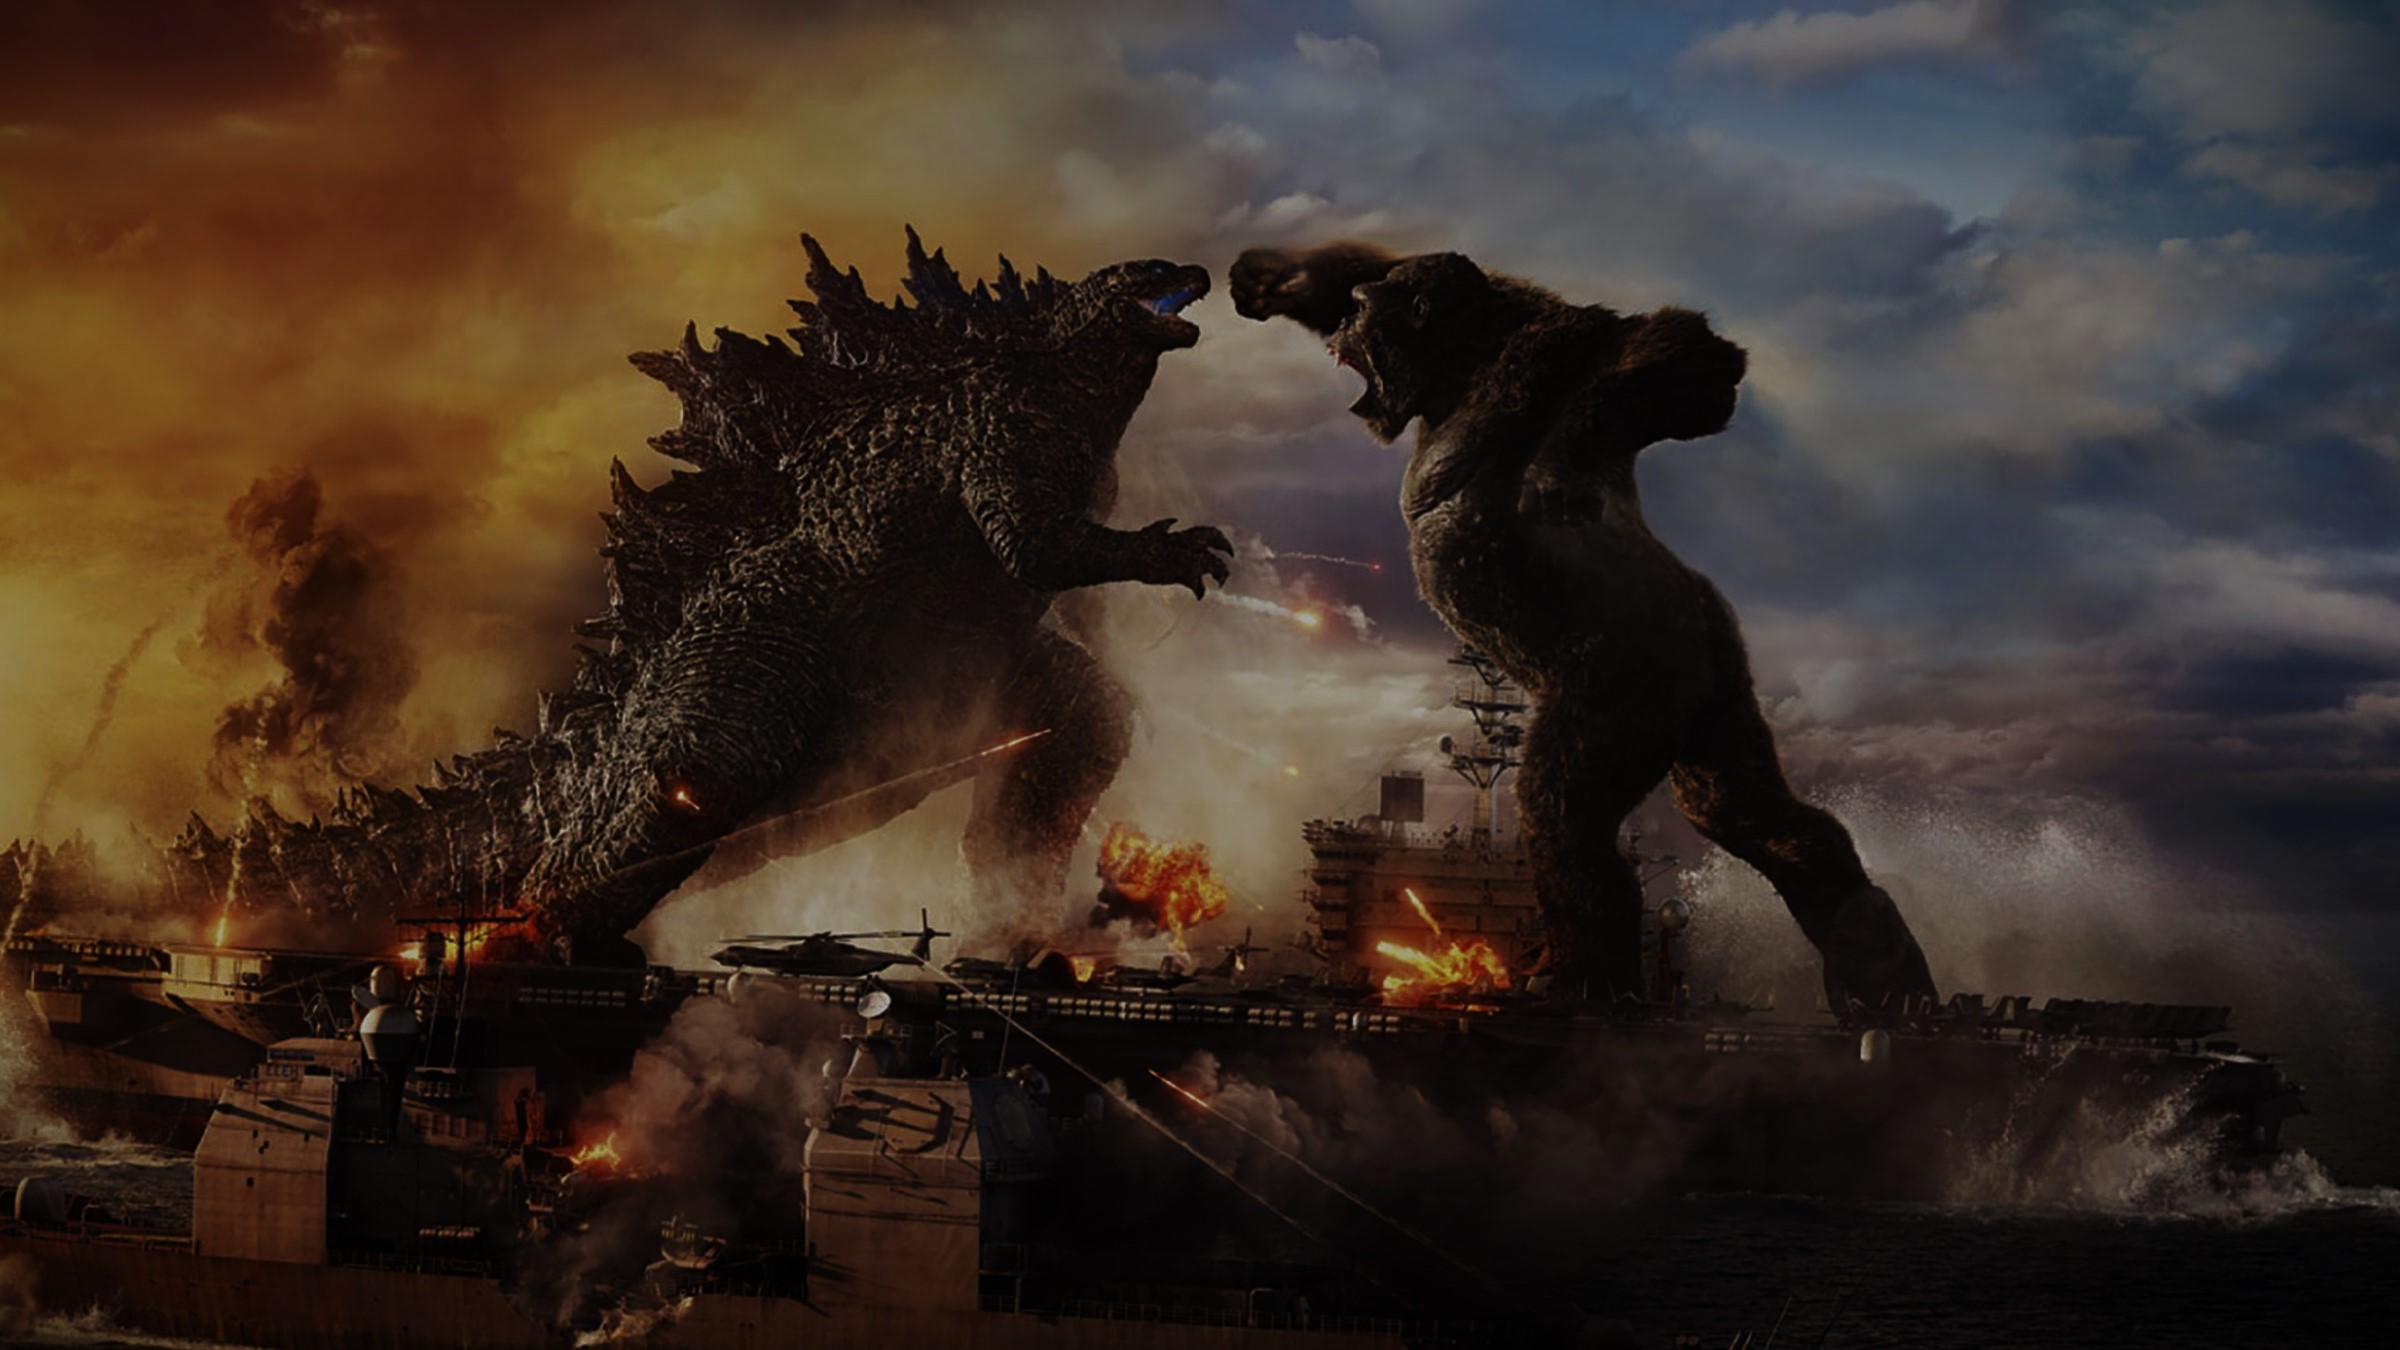
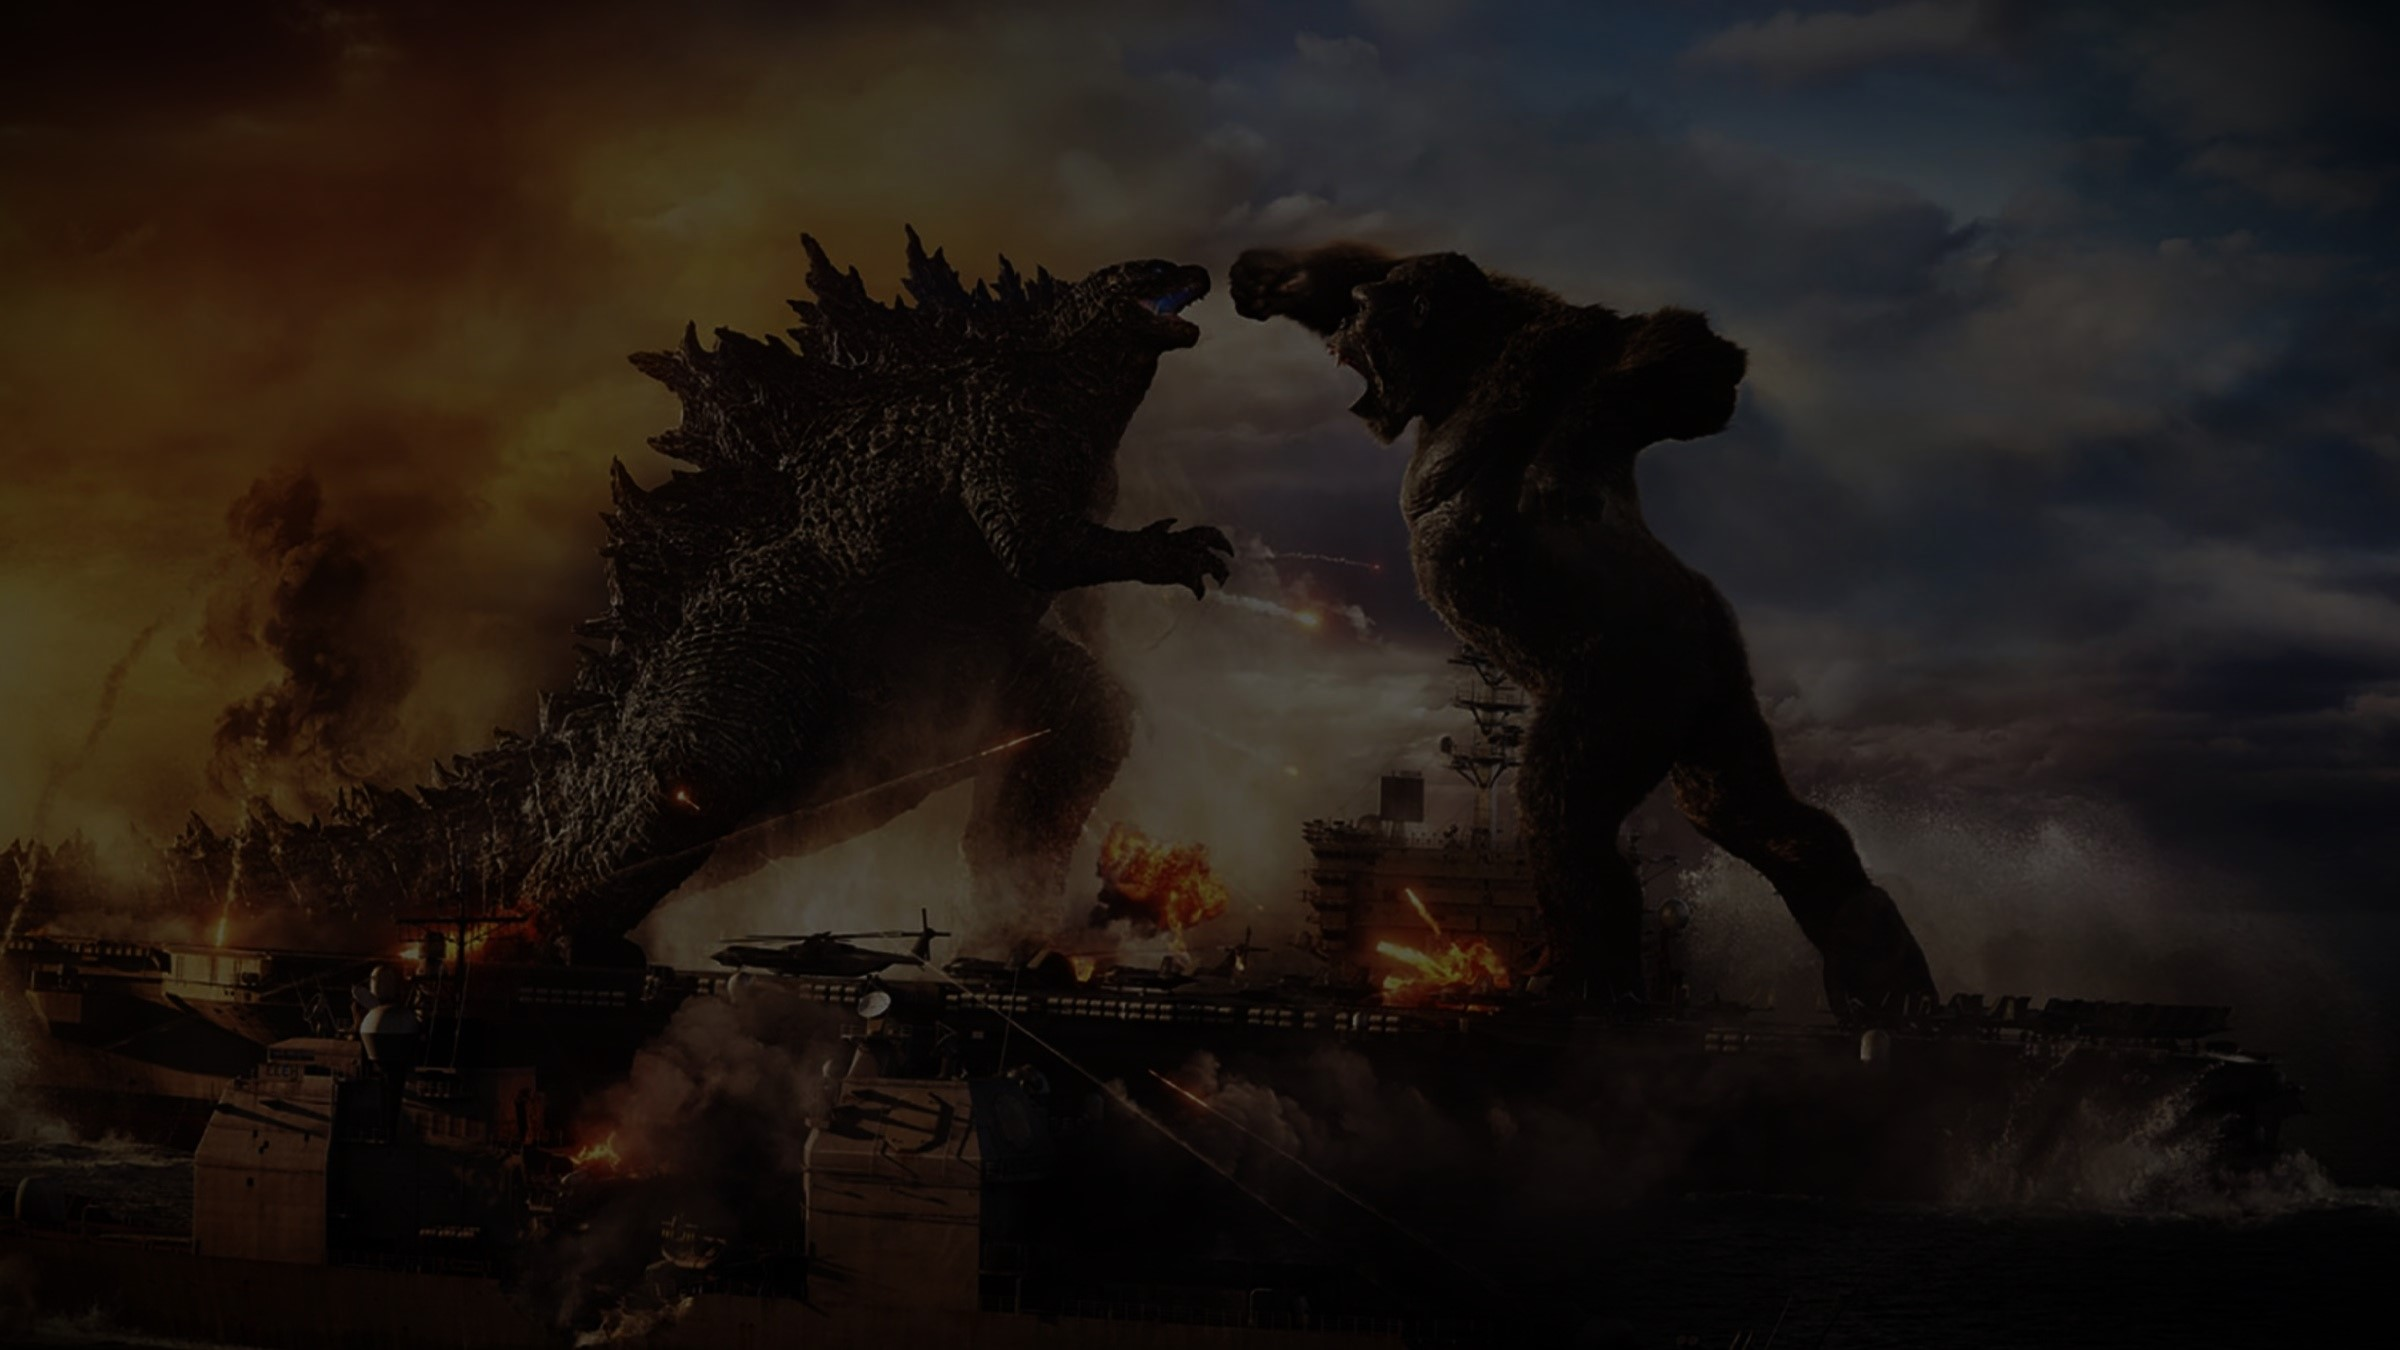
Tagbar

diff --git a/frontend/src/data.ts b/frontend/src/data.ts
@@ -1,5 +1,7 @@
 //membuat data data film
+import { count } from 'console'
 import {Film} from './app/shared/models/Film'
+import { Tag } from './app/shared/models/Tag'
 
 export const sample_film: Film[]= [
     {
@@ -111,7 +113,19 @@ export const sample_film: Film[]= [
         stars: 3.5,
         imageUrl: 'assets/film10.jpg',
         tags: ['Crime', 'Comedy'],
-      },
-      
-      
+      },      
+]
+
+export const sample_tags:Tag[] =[
+  { name: 'All', count:6},
+  { name: 'Action', count: 5},
+  { name: 'Sport', count:1},
+  { name: 'Drama', count: 3},
+  { name: 'Thriller', count:2},
+  { name: 'Fantasy', count:1},
+  { name: 'Sci-Fi', count:3},
+  { name: 'Crime', count:2},
+  { name: 'History', count:1},
+  { name: 'Comedy', count:2},
+  { name: 'Romance', count:1},
 ]

diff --git a/frontend/src/app/services/film.service.ts b/frontend/src/app/services/film.service.ts
@@ -1,6 +1,7 @@
 import { Injectable } from '@angular/core';
 import { Film } from '../shared/models/Film'
-import { sample_film } from '../../data';
+import { sample_film, sample_tags } from '../../data';
+import { Tag } from '../shared/models/Tag';
 @Injectable({
   providedIn: 'root'
 })
@@ -13,6 +14,14 @@ export class FilmService {
   }
   getAllFilmsBySearchTerm(searchTerm:string){
     return this.getAll().filter(film => film.name.toLowerCase().includes(searchTerm.toLowerCase()))
+  }
+  getAllTags():Tag[]{
+    return sample_tags
+  }
+  getAllFilmsByTag(tag:string):Film[]{
+  return tag === "All"?
+  this.getAll():
+  this.getAll().filter(film => film.tags?.includes(tag));
   }
   }
 

diff --git a/frontend/src/styles.css b/frontend/src/styles.css
@@ -3,9 +3,11 @@
 @import url('https://fonts.googleapis.com/css2?family=Anton&family=Manrope:wght@600&family=Montaga&family=Montserrat:wght@500&family=Nunito+Sans:ital,opsz,wght@0,6..12,200..1000;1,6..12,200..1000&family=Oswald&family=Playfair+Display&family=Poppins:ital,wght@0,100;0,200;0,300;0,400;0,500;0,600;0,700;0,800;0,900;1,100;1,200;1,300;1,400;1,500;1,600;1,700;1,800;1,900&family=Roboto:ital,wght@0,100;0,300;0,400;0,500;0,700;0,900;1,100;1,300;1,400;1,500;1,700;1,900&family=Sofia+Sans+Condensed&display=swap');
 *{
     box-sizing: border-box;
+    
 }
 html{
     font-size: 16px;
+    background-color: black;
 }
 html,
 button{

diff --git a/frontend/src/app/components/partials/tags/tags.component.spec.ts b/frontend/src/app/components/partials/tags/tags.component.spec.ts
@@ -1,0 +1,23 @@
+import { ComponentFixture, TestBed } from '@angular/core/testing';
+
+import { TagsComponent } from './tags.component';
+
+describe('TagsComponent', () => {
+  let component: TagsComponent;
+  let fixture: ComponentFixture<TagsComponent>;
+
+  beforeEach(async () => {
+    await TestBed.configureTestingModule({
+      declarations: [TagsComponent]
+    })
+    .compileComponents();
+    
+    fixture = TestBed.createComponent(TagsComponent);
+    component = fixture.componentInstance;
+    fixture.detectChanges();
+  });
+
+  it('should create', () => {
+    expect(component).toBeTruthy();
+  });
+});

diff --git a/frontend/src/app/app.module.ts b/frontend/src/app/app.module.ts
@@ -8,13 +8,15 @@ import { StarRatingComponent } from './components/partials/star-rating/star-rati
 import { MatIconModule } from '@angular/material/icon';
 import { provideAnimationsAsync } from '@angular/platform-browser/animations/async';
 import { SearchComponent } from './components/partials/search/search.component';
+import { TagsComponent } from './components/partials/tags/tags.component';
 @NgModule({
   declarations: [
     AppComponent,
     HeaderComponent,
     HomeComponent,
     StarRatingComponent,
-    SearchComponent
+    SearchComponent,
+    TagsComponent
   ],
   imports: [
     BrowserModule,

diff --git a/frontend/src/app/components/pages/home/home.component.ts b/frontend/src/app/components/pages/home/home.component.ts
@@ -13,7 +13,9 @@ export class HomeComponent implements OnInit{
   constructor(private filmService:FilmService , activatedRoute:ActivatedRoute) { 
     activatedRoute.params.subscribe((params) =>{
       if(params.searchTerm)
-        this.films= this.filmService.getAllFilmsBySearchTerm(params.searchTerm);
+      this.films= this.filmService.getAllFilmsBySearchTerm(params.searchTerm);
+      else if (params.tag)
+      this.films = this.filmService.getAllFilmsByTag(params.tag);
       else
       this.films = filmService.getAll();
     })

diff --git a/frontend/src/app/components/partials/tags/tags.component.ts b/frontend/src/app/components/partials/tags/tags.component.ts
@@ -1,0 +1,15 @@
+import { Component } from '@angular/core';
+import { FilmService } from '../../../services/film.service';
+import { Tag } from '../../../shared/models/Tag';
+
+@Component({
+  selector: 'app-tags',
+  templateUrl: './tags.component.html',
+  styleUrl: './tags.component.css'
+})
+export class TagsComponent {
+  tags?:Tag[];
+  constructor(filmService:FilmService) {
+    this.tags = filmService.getAllTags();
+  }
+}

diff --git a/frontend/src/app/components/pages/home/home.component.html b/frontend/src/app/components/pages/home/home.component.html
@@ -1,4 +1,5 @@
 <app-search></app-search>
+<app-tags></app-tags>
 <ul>
     <li *ngFor="let film of films">
         <a routerLink="/film/{{film.id}}">
@@ -12,6 +13,7 @@
             <div class="stars">
                 <star-rating [stars]="film.stars"/>
             </div>
+            
             <div class="minutes">
                 <span><mat-icon>access_time</mat-icon></span>
                 {{film.minutes}}

diff --git a/frontend/src/app/components/partials/tags/tags.component.css b/frontend/src/app/components/partials/tags/tags.component.css
@@ -1,0 +1,20 @@
+div {
+    display: flex;
+    flex-wrap: wrap;
+    justify-content: center;
+    background-color: black;
+    margin-bottom: 10px;
+  }
+  
+  div a {
+    background-color: #f0f0f0;
+    padding: 0.3rem 1rem;
+    margin: 0.2rem 0.15rem;
+    border-radius: 10rem;
+    font-weight: 600;
+    color: rgb(0, 0, 0);
+  }
+  
+  a .active {
+    background-color: red;
+  }

diff --git a/frontend/src/app/components/partials/header/header.component.css b/frontend/src/app/components/partials/header/header.component.css
@@ -123,14 +123,19 @@ body {
     display: flex;
     justify-content: center;
     align-items: center;
+    font-family: "Outfit";
+    font-weight: bold;
   }
   
   .hero-slide-content {
     text-align: center;
     color: #fff;
+    
   }
   
   .hero-slide-content h1 {
+    font-family: "Outfit";
+    font-weight: bold;
     font-size: 3rem;
     margin-bottom: 1rem;
   }

diff --git a/frontend/src/app/app-routing.module.ts b/frontend/src/app/app-routing.module.ts
@@ -4,7 +4,8 @@ import { HomeComponent } from './components/pages/home/home.component';
 
 const routes: Routes = [
   {path:'',component:HomeComponent},
-  {path:'search/:searchTerm', component:HomeComponent}
+  {path:'search/:searchTerm', component:HomeComponent},
+  {path:'tag/:tag', component:HomeComponent}
 ];
 
 @NgModule({

diff --git a/frontend/src/app/components/partials/header/header.component.html b/frontend/src/app/components/partials/header/header.component.html
@@ -1,4 +1,4 @@
-
+<link href='https://fonts.googleapis.com/css?family=Outfit' rel='stylesheet'>
 <header>
     <div class="container">
     <!--Ini Navbar-->
